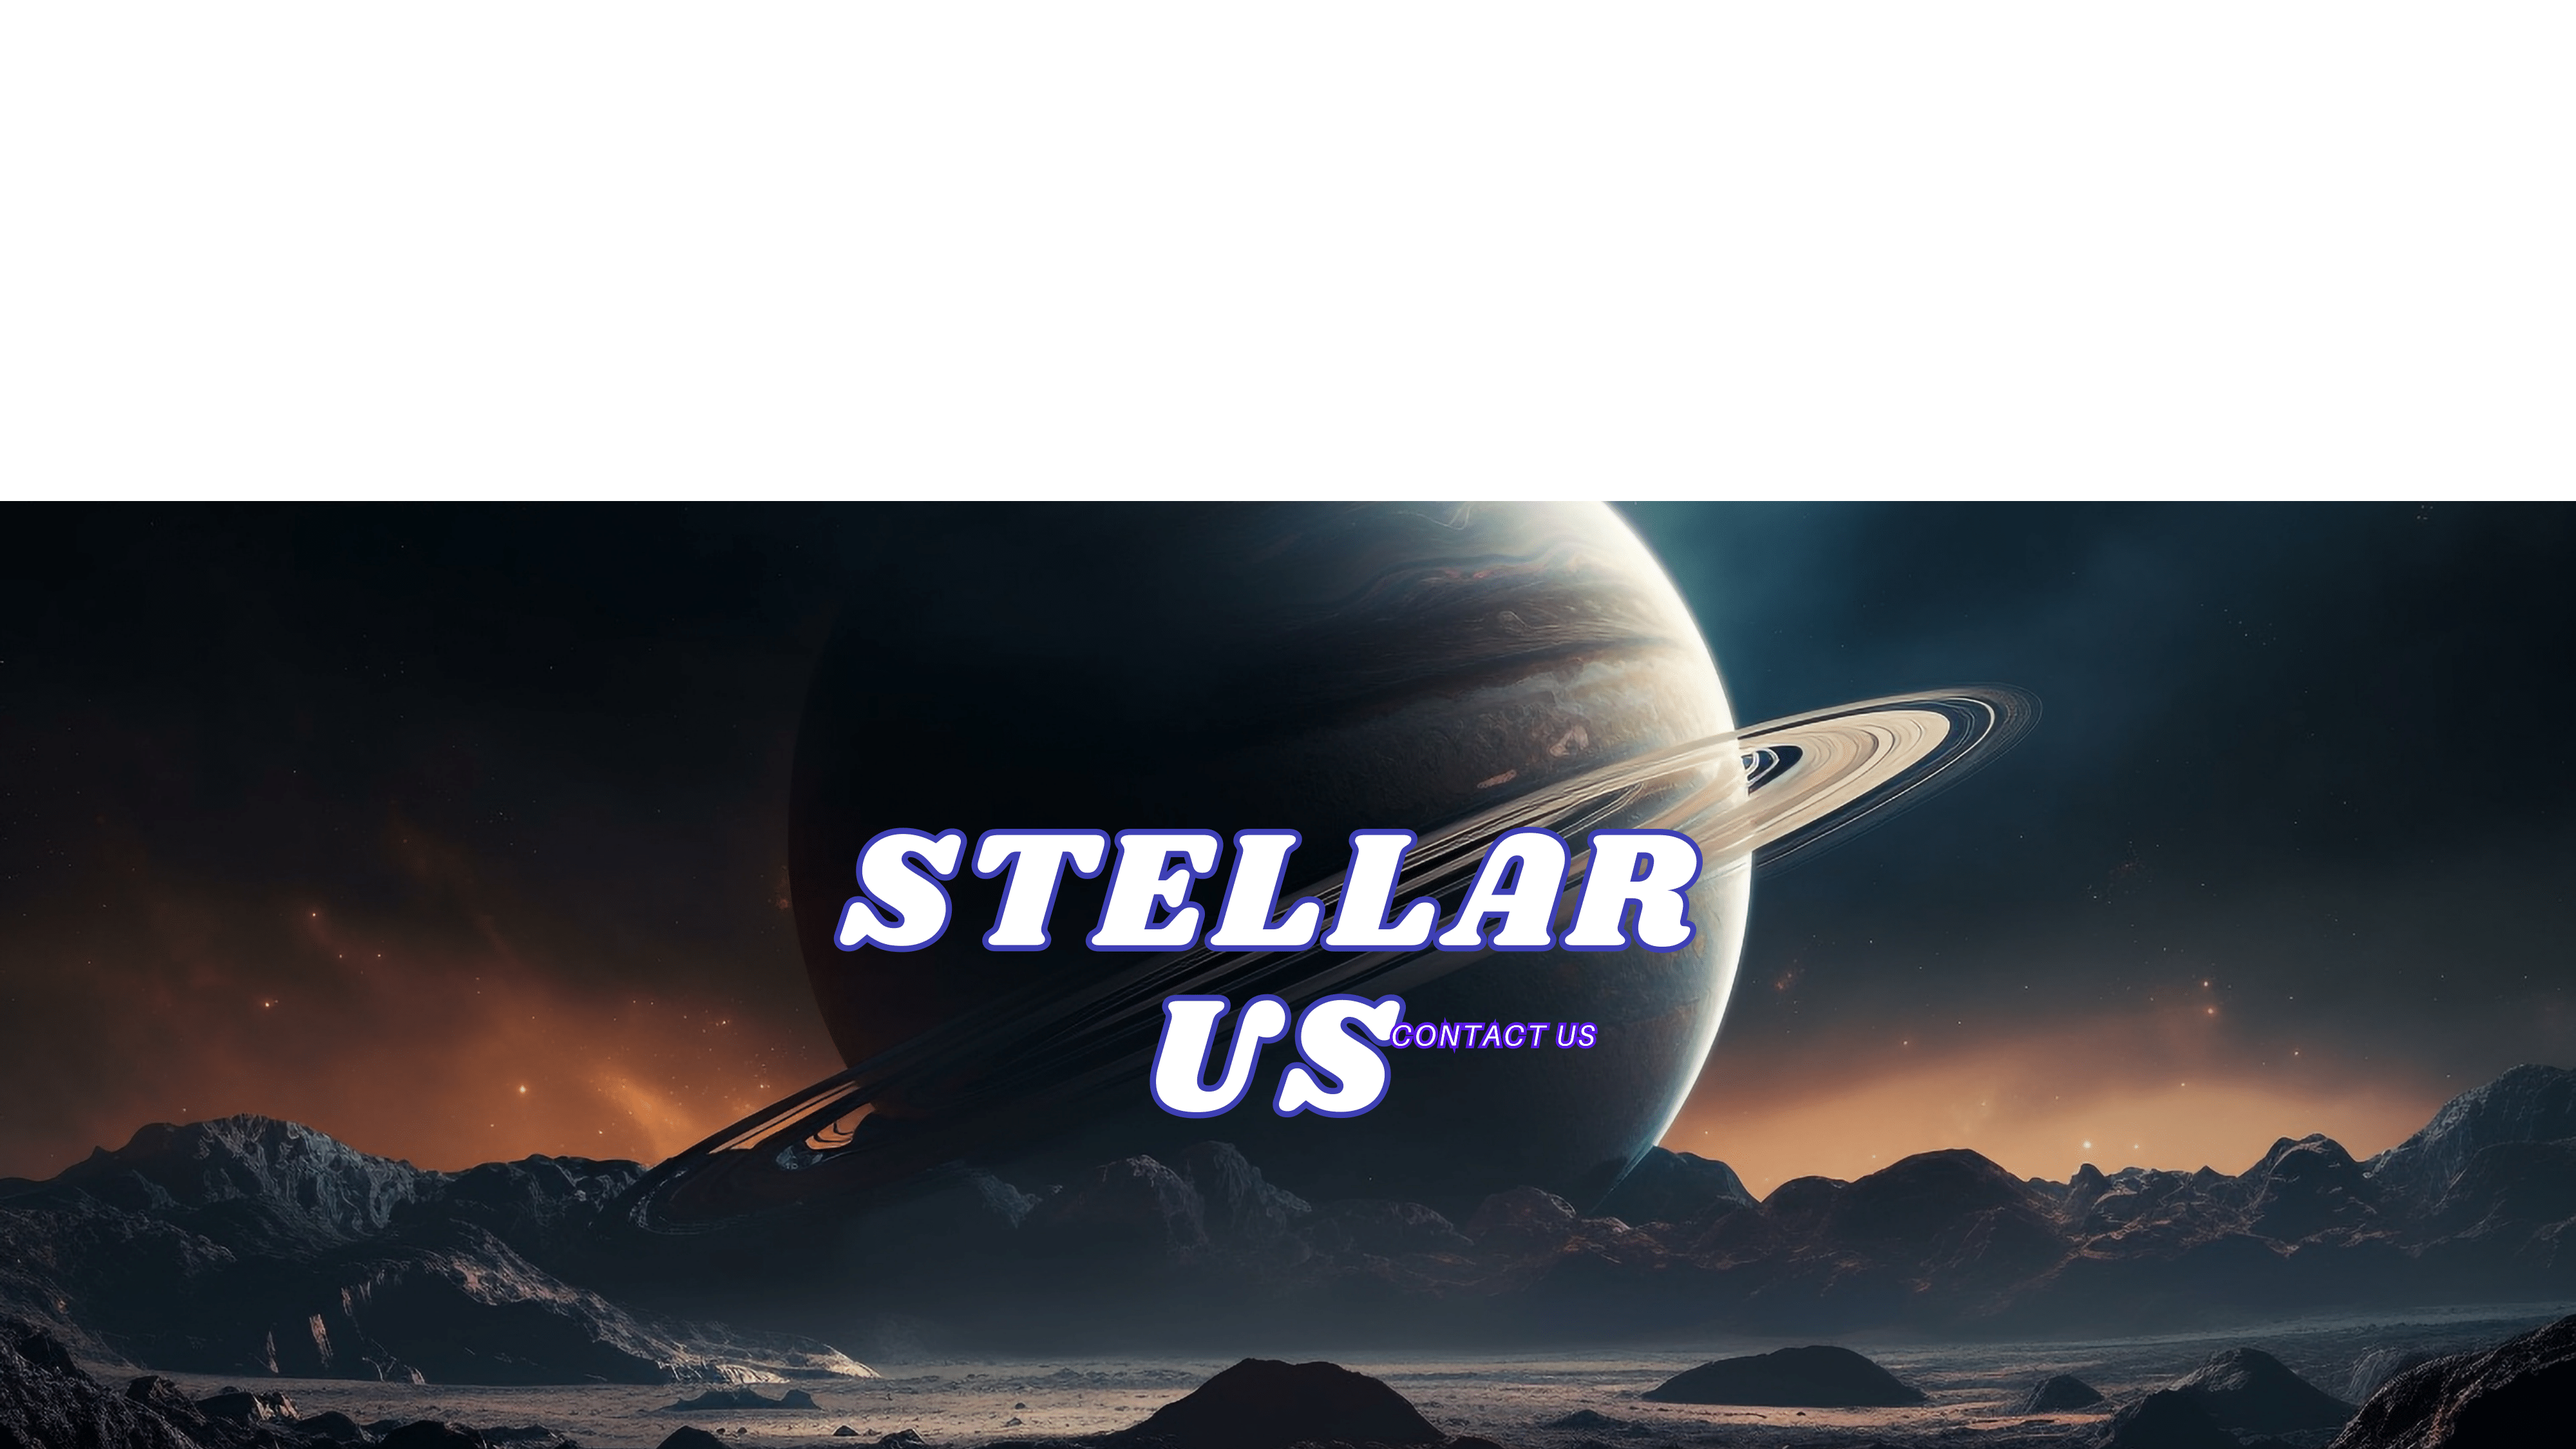
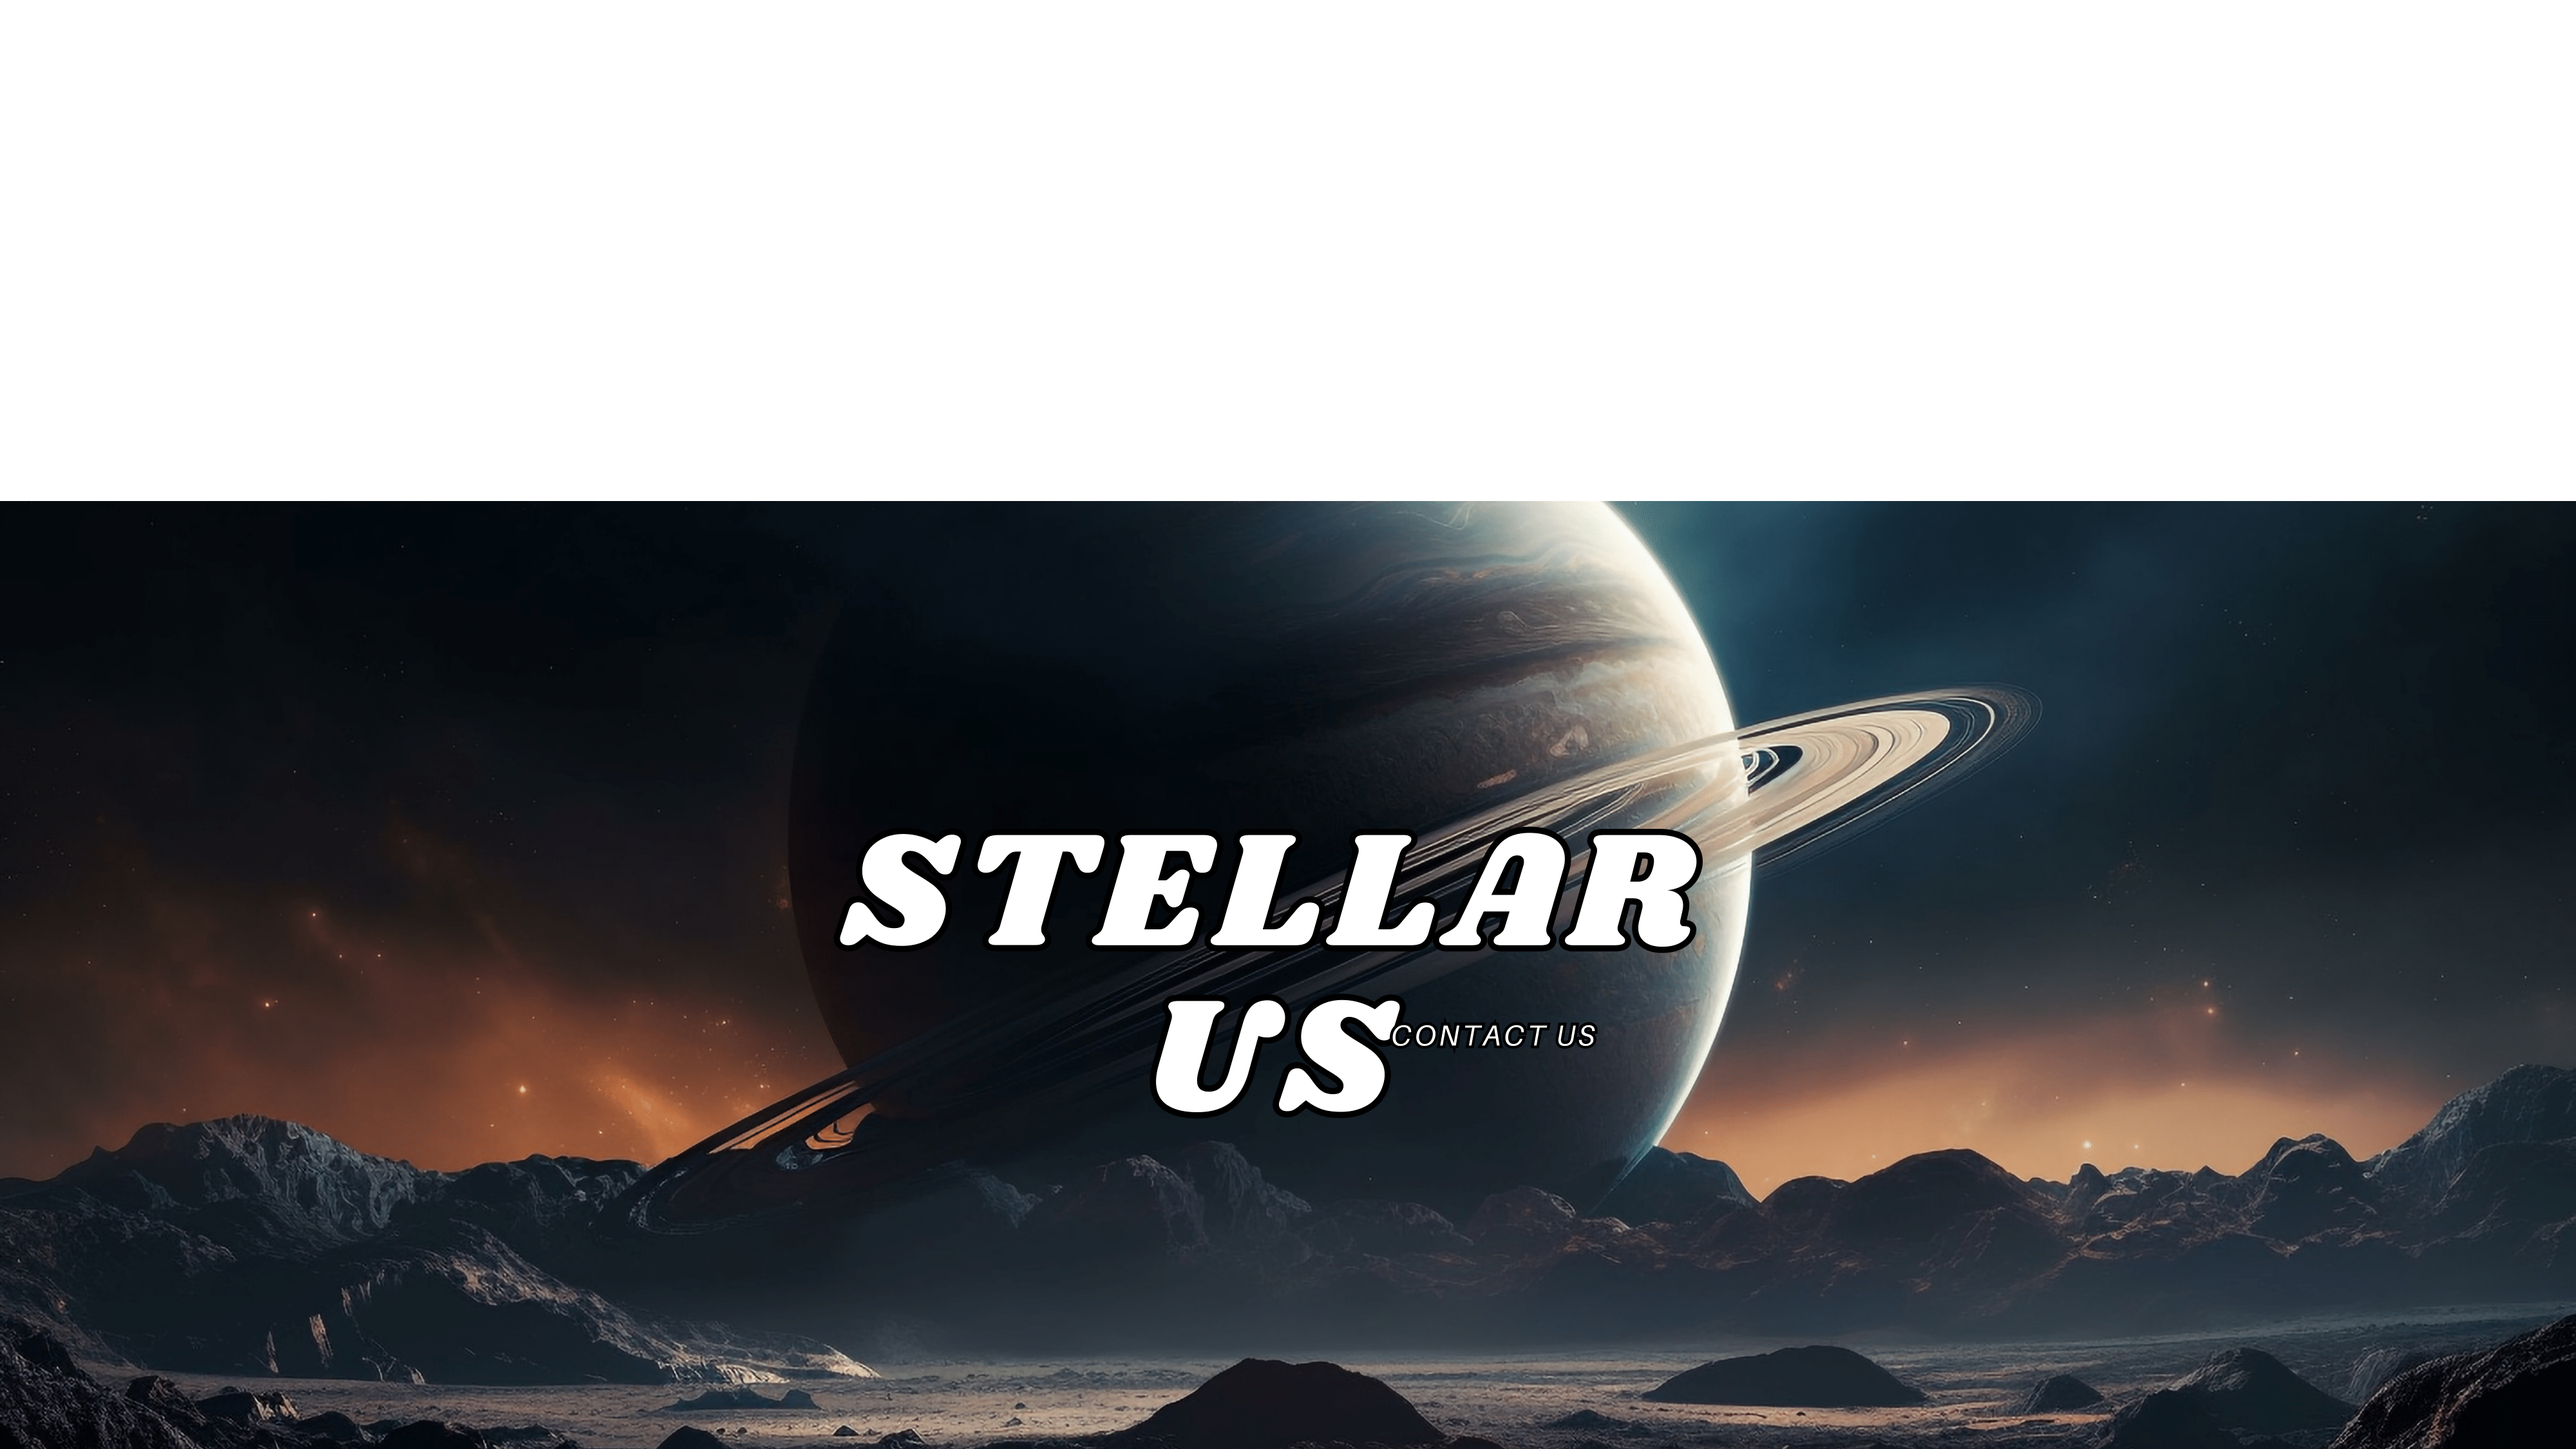
commit modifciacion ultima de pagina contactos

Changed region(s): [[0.3125, 0.56, 0.6562, 0.7778], [0.625, 0.3422, 0.6562, 0.3733]]

diff --git a/css/contact.css b/css/contact.css
@@ -1,4 +1,9 @@
-  .principal{
+body{
+  background-image: url(../img/ESTRELLAS_FONDOS.jpg);
+  background-repeat: no-repeat;
+  background-size: cover;
+}
+.principal{
 
     width: 100%;
     height: 100vh;
@@ -15,7 +20,7 @@
   background-position: center -540px;
 }
 .segundaSection{
-  background-color: #ffffff;
+  background-color: #0b2846;
   width: 70%;
   height: 900px;
   justify-self: center;
@@ -24,12 +29,15 @@
   display: grid;
   grid-template-columns: repeat(2,1fr);
   grid-template-rows: 270px 270px 400px;
+  background-image: url(../img/ESTRELLAS_FONDOS.jpg);
+  background-repeat: no-repeat;
+  background-size: cover;
 
 }
 .div{
   width: 380px;
   height: 230px;
-  background-color: #2e5881;
+  background: linear-gradient(0.25turn, #3f87a6, #ebf8e1, #3f87a6);  
   justify-self: center;
   align-self: center;
   border-radius: 20px;
@@ -80,7 +88,7 @@
 .divForm{
   width: 80%;
   height:90% ;
-  background-color: #2e5881;
+  background: linear-gradient(0.25turn, #3f87a6, #ebf8e1, #3f87a6);  
   grid-column: 2/3;
   grid-row: 1/3;
   border-radius: 20px;

diff --git a/html/register.html b/html/register.html
@@ -57,7 +57,7 @@
 
           <div class="cajaNombreForm">
             <label class="labelNombreApellido" for="nombres">Nombre y Apellido</label>
-            <input type="text" class="input nombre" placeholder="  Nombre Completo" name="nombres" required>
+            <input type="text" class="input nombre" placeholder="  Nombre Completo" name="nombres" id="nombreInput">
             <input type="text" class="input apellido" placeholder="  Apellido" name="nombres">
           </div>
 

diff --git a/js/registrer.js b/js/registrer.js
@@ -1,3 +1,5 @@
+var nombre = document.getElementById('nombreInput');
+console.log(nombre)
 
 var pop = document.getElementById('popUp')
 console.log(pop);
@@ -7,7 +9,7 @@ console.log(inputs);
 function mostrarPopUp(){
 
     pop.classList.add("mostrar-pop");
-
+    document.getElementById('nombrePopUp').innerHTML= nombre.value;
 
 }
 function cerrarPopUp(){

diff --git a/css/index.css b/css/index.css
@@ -166,7 +166,7 @@ body {
     grid-template-rows: repeat(6,1fr);
 }
 #h1CasaLuna{
-    color: rgba(48, 62, 143, 0.438);
+    color: rgb(255, 255, 255);
     font-family: h1Index;
     font-size: 5rem;
     grid-column: 1/7;

diff --git a/css/registrer.css b/css/registrer.css
@@ -285,3 +285,7 @@ label{
     font-size: 20px;
     cursor: pointer;
 }
+#nombrePopUp{
+    justify-self: center;
+    font-size: 2rem;
+}
